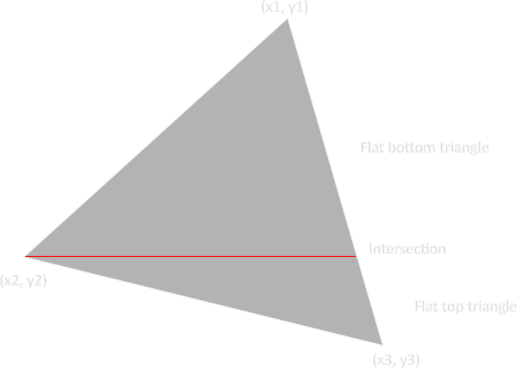
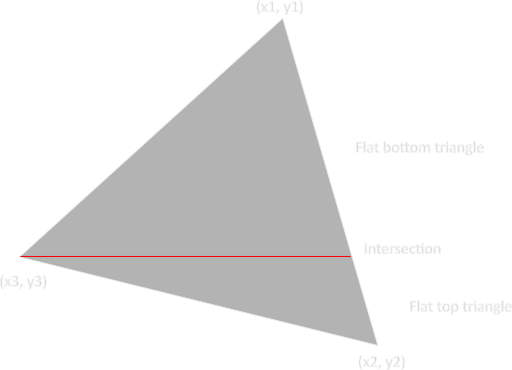
refactored/clarified triangle functions

diff --git a/WindowsProgrammingC++/11_DirectDrawRasterTransform.md b/WindowsProgrammingC++/11_DirectDrawRasterTransform.md
@@ -1502,11 +1502,11 @@ Some points to consider re. the algorithm:
 
 The triangle deconstruction function is supported by flat top triangle and flat bottom triangle drawing functions. The polygon coordinates are provided in an anticlockwise manner.
 
-To draw a flat top triangle:
+To draw a flat top triangle (with vertex `(xb, yb)` opposite the flat top):
 
 ```cpp
 void drawFlatTopTriangle(
-	int x1, int y1, int x2, int y2, int x3, int y3,
+	int xleft, int yleft, int xright, int yright, int xb, int yb,
 	int colour, UCHAR *dest_buffer, int mempitch){
 
 	float dx_right,    // the dx/dy ratio of the right edge of line
@@ -1522,55 +1522,56 @@ void drawFlatTopTriangle(
 	// destination address of next scanline
 	UCHAR *dest_addr = NULL;
 
-	// test order of x1 and x2
-	if (x2 < x1){
-		temp_x = x2;
-		x2 = x1;
-		x1 = temp_x;
+	// test order of xleft and xright
+	if (xright < xleft){
+		temp_x = xright;
+		xright = xleft;
+		xleft = temp_x;
 	}
 
 	// compute delta's
-	height = y3 - y1;
+	height = yb - yleft;
 
-	dx_left  = (x3 - x1) / height;
-	dx_right = (x3 - x2) / height;
+	dx_left  = (xb - xleft) / height;
+	dx_right = (xb - xright) / height;
 
 	// set starting points
-	xStart = (float) x1;
-	xEnd = (float) x2 + (float) 0.5;
+	xStart = (float) xleft;
+	xEnd = (float) xright + (float) 0.5;
 
 	// perform y clipping
-	if (y1 < minClipY){
-	   xStart += dx_left*(float)(-y1 + minClipY);
-	   xEnd += dx_right*(float)(-y1 + minClipY);
+	if (yleft < minClipY){
+	   xStart += dx_left*(float)(-yleft + minClipY);
+	   xEnd += dx_right*(float)(-yleft + minClipY);
 
-	   // reset y1
-	   y1 = minClipY;
+	   // reset yleft
+	   yleft = minClipY;
 	}
 
-	if (y3 > maxClipY)
-	   y3 = maxClipY;
+	if (yb > maxClipY)
+	   yb = maxClipY;
 
 	// compute starting address in video memory
-	dest_addr = dest_buffer + y1*mempitch;
+	dest_addr = dest_buffer + yleft*mempitch;
 
 	// test if x clipping is needed
-	if (x1 >= minClipX && x1 <= maxClipX &&
-		x2 >= minClipX && x2 <= maxClipX &&
-		x3 >= minClipX && x3 <= maxClipX){
+	if (xleft >= minClipX && xleft <= maxClipX &&
+		xright >= minClipX && xright <= maxClipX &&
+		xb >= minClipX && xb <= maxClipX){
 			
-			for (temp_y = y1; temp_y <= y3; temp_y++, dest_addr += mempitch){
+			for (temp_y = yleft; temp_y <= yb; temp_y++, dest_addr += mempitch){
 				memset((UCHAR *)dest_addr + (unsigned int)xStart,
 					colour, (unsigned int)(xEnd - xStart + 1));
 
-			// adjust starting point and ending point
-			xStart += dx_left;
-			xEnd += dx_right;
+				// adjust starting point and ending point
+				xStart += dx_left;
+				xEnd += dx_right;
 			}
+
 		} else {
 			// clip x axis with slower version
 			
-			for (temp_y = y1; temp_y <= y3; temp_y++, dest_addr += mempitch){
+			for (temp_y = yleft; temp_y <= yb; temp_y++, dest_addr += mempitch){
 				// do x clip
 				left  = (int)xStart;
 				right = (int)xEnd;
@@ -1595,17 +1596,17 @@ void drawFlatTopTriangle(
 				}
 				
 				memset((UCHAR *) dest_addr + (unsigned int)left,
-					colour, (unsigned int)(right-left+1));
+					colour, (unsigned int)(right - left + 1));
 			}
 	}
 }
 ```
 
-To draw a flat bottom triangle:
+To draw a flat bottom triangle (with vertex `(xt, yt)` opposite the flat bottom):
 
 ```cpp
 void drawFlatBottomTriangle(
-	int x1, int y1, int x2, int y2, int x3, int y3, 
+	int xt, int yt, int xleft, int yleft, int xright, int yright, 
 	int colour, UCHAR *dest_buffer, int mempitch){
 
 	float dx_right,    // the dx/dy ratio of the right edge of line
@@ -1621,55 +1622,56 @@ void drawFlatBottomTriangle(
 	// destination address of next scanline
 	UCHAR *dest_addr;
 
-	// test order of x1 and x2
-	if (x3 < x2){
-		temp_x = x2;
-		x2     = x3;
-		x3     = temp_x;
+	// test order of xleft and xright
+	if (xright < xleft){
+		temp_x = xleft;
+		xleft     = xright;
+		xright     = temp_x;
 	}
 
 	// compute delta's
-	height = y3 - y1;
+	height = yright - yt;
 
-	dx_left  = (x2 - x1) / height;
-	dx_right = (x3 - x1) / height;
+	dx_left  = (xleft - xt) / height;
+	dx_right = (xright - xt) / height;
 
 	// set starting points
-	xStart = (float) x1;
-	xEnd = (float) x1; // +(float)0.5;
+	xStart = (float) xt;
+	xEnd = (float) xt; // +(float)0.5;
 
 	// perform y clipping
-	if (y1 < minClipY){
-		xStart += dx_left * (float)(-y1 + minClipY);
-		xEnd += dx_right * (float)(-y1 + minClipY);
+	if (yt < minClipY){
+		xStart += dx_left * (float)(-yt + minClipY);
+		xEnd += dx_right * (float)(-yt + minClipY);
 
-		// reset y1
-		y1 = minClipY;
+		// reset yt
+		yt = minClipY;
 	}
 
-	if (y3 > maxClipY)
-		y3 = maxClipY;
+	if (yright > maxClipY)
+		yright = maxClipY;
 
 	// compute starting address in video memory
-	dest_addr = dest_buffer + y1*mempitch;
+	dest_addr = dest_buffer + yt*mempitch;
 
 	// test if x clipping is needed
-	if (x1 >= minClipX && x1 <= maxClipX &&
-		x2 >= minClipX && x2 <= maxClipX &&
-		x3 >= minClipX && x3 <= maxClipX){
+	if (xt >= minClipX && xt <= maxClipX &&
+		xleft >= minClipX && xleft <= maxClipX &&
+		xright >= minClipX && xright <= maxClipX){
 			
-			for (temp_y = y1; temp_y <= y3; temp_y++, dest_addr += mempitch){
+			for (temp_y = yt; temp_y <= yright; temp_y++, dest_addr += mempitch){
 				memset((UCHAR  *)dest_addr + (unsigned int)xStart,
 					colour,(unsigned int)(xEnd - xStart + 1));
 
-			// adjust starting point and ending point
-			xStart += dx_left;
-			xEnd += dx_right;
-		}
+				// adjust starting point and ending point
+				xStart += dx_left;
+				xEnd += dx_right;
+			}
+
 	} else {
 		// clip x axis with slower version
 
-		for (temp_y = y1; temp_y <= y3; temp_y++, dest_addr += mempitch){
+		for (temp_y = yt; temp_y <= yright; temp_y++, dest_addr += mempitch){
 			// do x clip
 			left  = (int)xStart;
 			right = (int)xEnd;
@@ -1756,15 +1758,23 @@ void drawTriangle2DI(
 
 	// test if top of triangle is flat
 	if (y1 == y2){
+
+		// coords: (xleft, yleft), (xright, yright), (xb, yb)
 		drawFlatTopTriangle(x1, y1, x2, y2, x3, y3, colour, dest_buffer, mempitch);
+
 	} else if (y2 == y3){
+
+		// coords: (xt, yt), (xleft, yleft), (xright, yright)
 		drawFlatBottomTriangle(x1, y1, x2, y2, x3, y3, colour, dest_buffer, mempitch);
+
 	} else {
 		// general triangle that's needs to be broken up along long edge
 		new_x = x1 + (int)(0.5+(float)(y2 - y1) * (float)(x3 - x1)/(float)(y3 - y1));
 
-		// draw each sub-triangle
+		// coords: (xt, yt), (xleft, yleft), (xright, yright)
 		drawFlatBottomTriangle(x1, y1, new_x, y2, x2, y2, colour, dest_buffer, mempitch);
+
+		// coords: (xleft, yleft), (xright, yright), (xb, yb)
 		drawFlatTopTriangle(x2, y2, new_x, y2, x3, y3, colour, dest_buffer, mempitch);
 	}
 }
